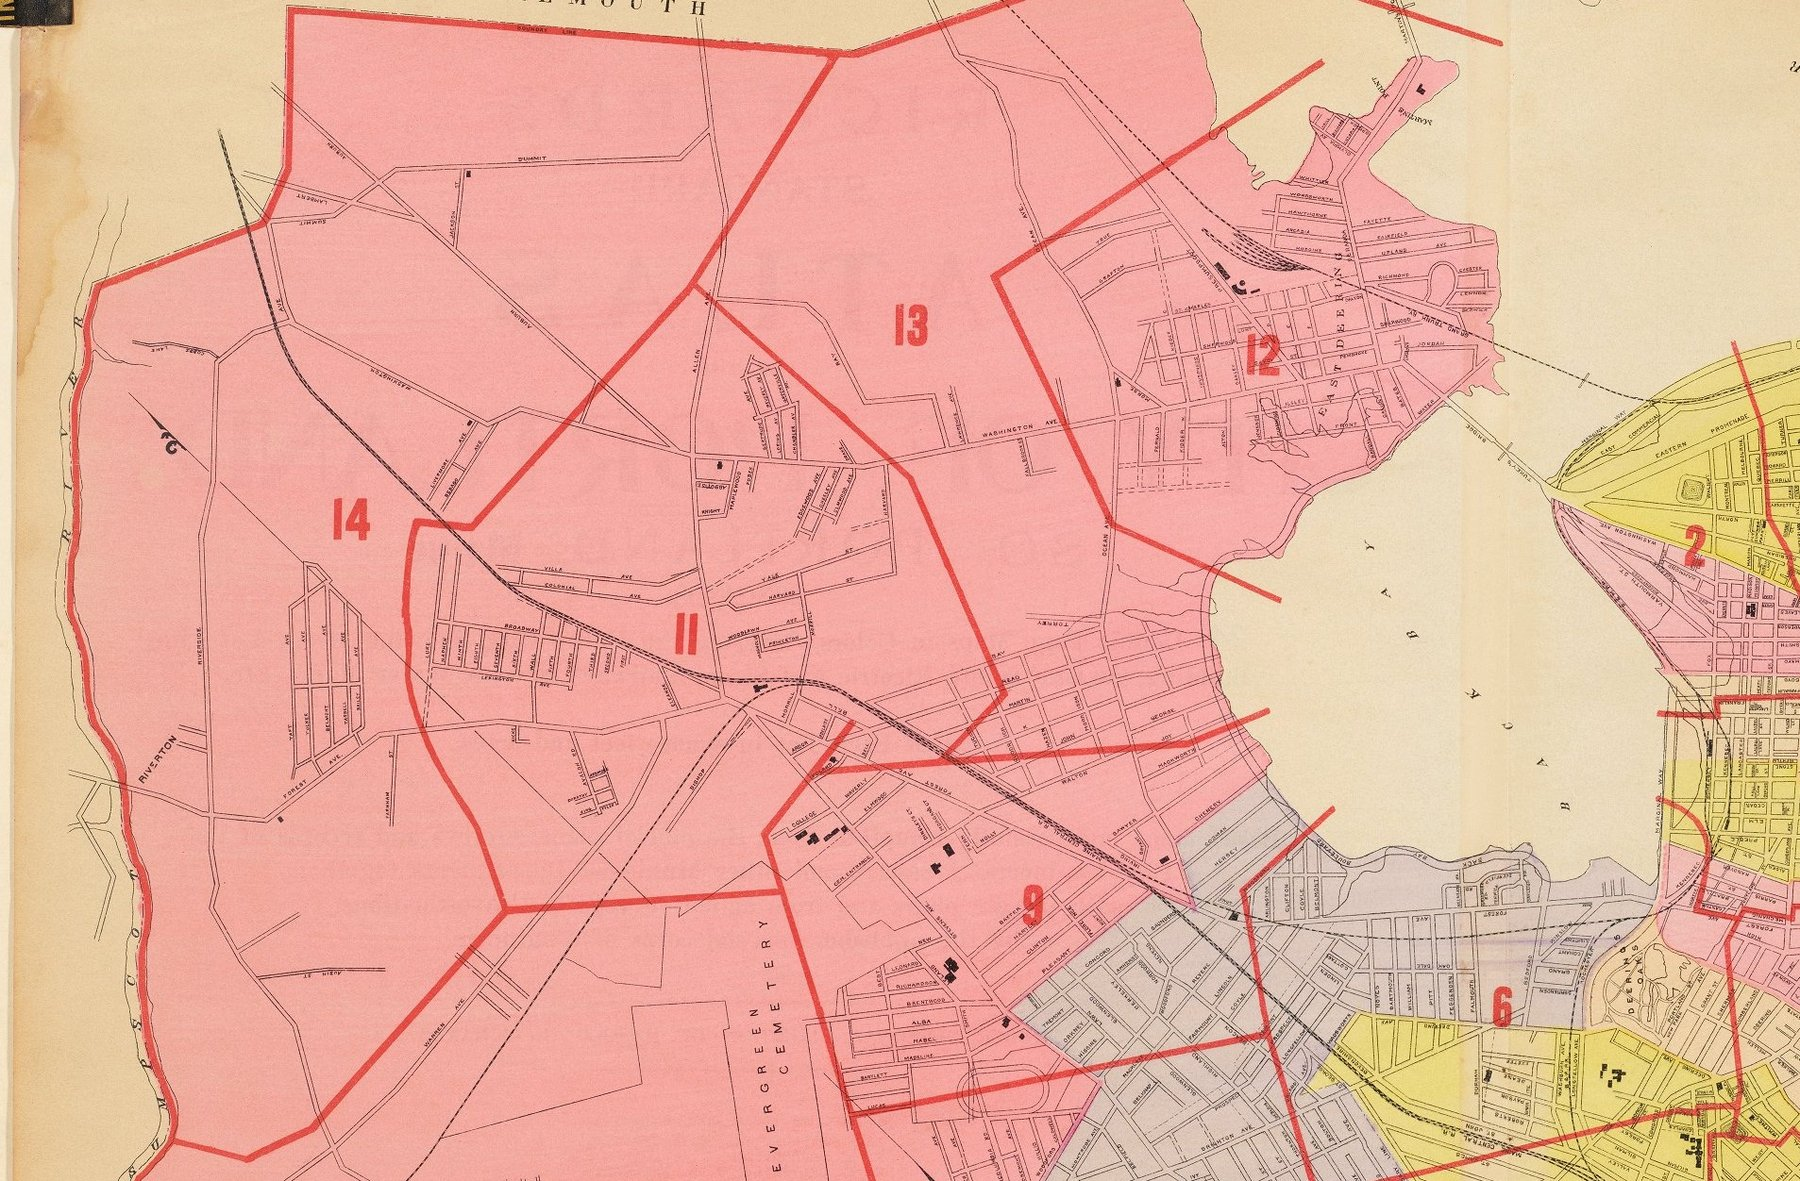
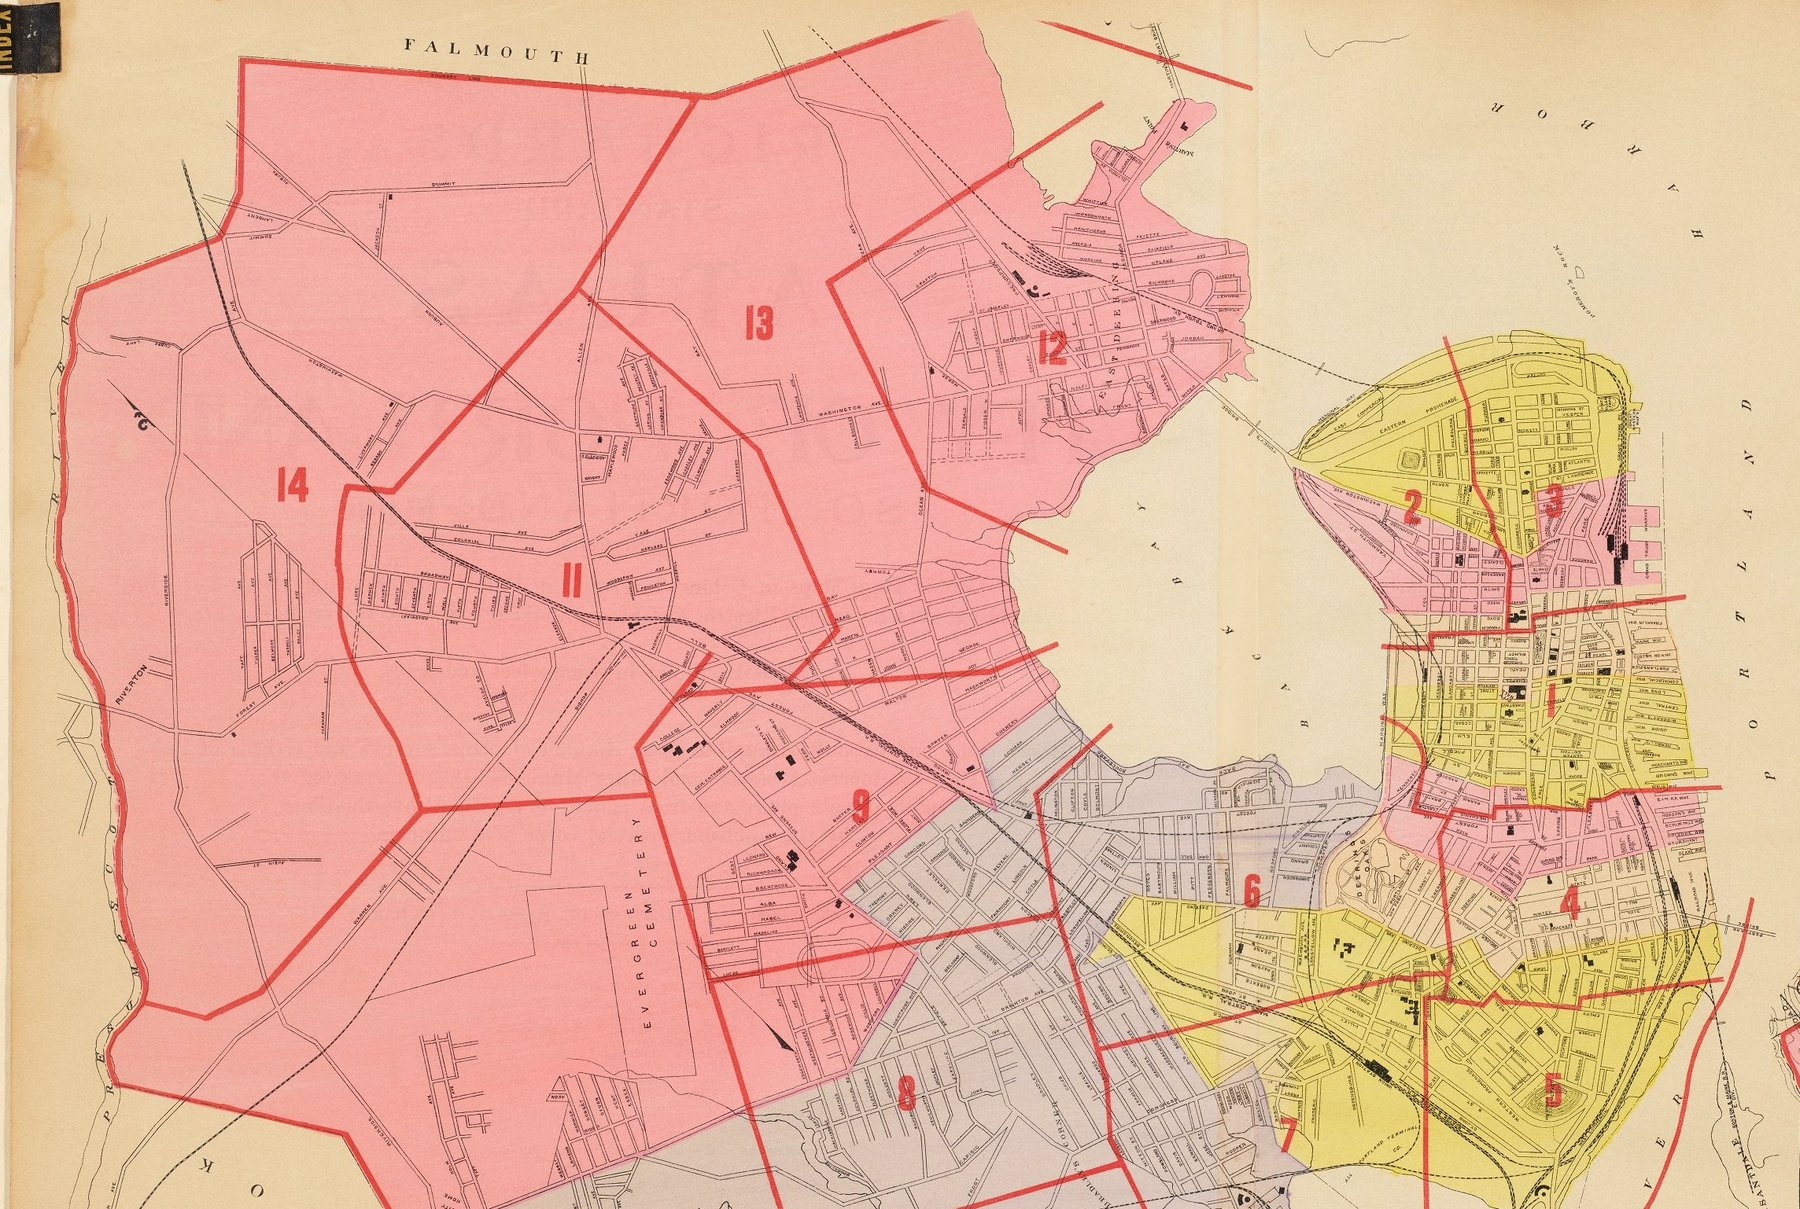
Fix map tile rendering, annotation accuracy, and hero framing
1. Broken-looking map tiles (confirmed real, not a screenshot artifact
   -- fetched an actual OSM tile URL directly and it genuinely was
   mostly blank): the Placerville-area parcel sits on real rural land
   with almost nothing drawn in OSM's street-vector style at high
   zoom. Switched both map components (ResultMap.svelte, workspace's
   inline map) from OSM tiles to Esri World Imagery satellite tiles,
   which always show real ground detail regardless of how rural the
   area is. Also fixed a real timing bug found along the way: calling
   fitBounds twice in quick succession (an initial setView followed
   shortly by a delayed re-fit) made Leaflet abandon in-flight tile
   fetches for the first view, which was contributing to the broken
   appearance -- now it's a single fitBounds after invalidateSize.

2. Detection-box annotations on the scan-visual image were positioned
   at arbitrary percentages, not actually over real text or a real
   parcel block. Repositioned them over the document's actual title
   text and an actual dense lot-grid block, and switched the image
   from a cropped object-fit:cover (which would have made percentage
   positions drift against the visible crop) to full natural sizing,
   so the overlay always aligns with the real image content.

3. Hero image cropped to show more surrounding context (more ward
   zones visible) at the same display size, per feedback that the
   previous crop was too tight.

diff --git a/frontend/src/lib/components/ResultMap.svelte b/frontend/src/lib/components/ResultMap.svelte
@@ -18,12 +18,29 @@
       doubleClickZoom: interactive,
       boxZoom: interactive,
       keyboard: false,
-      attributionControl: interactive
-    }).setView([0, 0], 2);
+      attributionControl: interactive,
+      fadeAnimation: false,
+      zoomAnimation: false
+    });
 
-    L.tileLayer('https://{s}.tile.openstreetmap.org/{z}/{x}/{y}.png', {
-      attribution: '&copy; OpenStreetMap contributors'
-    }).addTo(map);
+    // Satellite imagery rather than the OSM street-vector style: a
+    // parcel can sit on genuinely undeveloped rural land with almost
+    // nothing drawn in OSM's vector tiles at high zoom (confirmed by
+    // fetching an actual tile directly -- it really was mostly blank,
+    // not a rendering bug), which reads as "broken" even though it's
+    // accurately empty. Real imagery always has visible ground detail.
+    L.tileLayer(
+      'https://server.arcgisonline.com/ArcGIS/rest/services/World_Imagery/MapServer/tile/{z}/{y}/{x}',
+      { attribution: 'Esri, Maxar, Earthstar Geographics' }
+    ).addTo(map);
+
+    // Settle the container's real size BEFORE the one-and-only fitBounds
+    // call -- doing this after (or calling fitBounds more than once in
+    // quick succession, which an earlier version of this component did)
+    // makes Leaflet start loading tiles for one view, then abandon them
+    // mid-fetch for the next, leaving broken/half-loaded tile fragments
+    // instead of a clean render.
+    map.invalidateSize(false);
 
     const layer = L.geoJSON(geojson, {
       style: { color, weight: 2.5, fillColor: color, fillOpacity: 0.14 }
@@ -31,15 +48,10 @@
 
     const bounds = layer.getBounds();
     if (bounds.isValid()) {
-      map.fitBounds(bounds, { padding: [28, 28] });
+      map.fitBounds(bounds, { padding: [28, 28], animate: false });
+    } else {
+      map.setView([0, 0], 2);
     }
-
-    requestAnimationFrame(() => map.invalidateSize());
-    setTimeout(() => {
-      map.invalidateSize();
-      const b = layer.getBounds();
-      if (b.isValid()) map.fitBounds(b, { padding: [28, 28] });
-    }, 250);
   });
 
   onDestroy(() => {
@@ -53,6 +65,7 @@
 .result-map {
   width: 100%;
   height: 100%;
+  background: #eeece6;
 }
 
 .result-map :global(.leaflet-control-attribution) {

diff --git a/frontend/src/routes/(app)/workspace/+page.svelte b/frontend/src/routes/(app)/workspace/+page.svelte
@@ -44,10 +44,22 @@
   async function renderMap() {
     await ensureLeaflet();
     if (!map) {
-      map = L.map(mapEl, { zoomControl: true }).setView([20, 0], 2);
-      L.tileLayer('https://{s}.tile.openstreetmap.org/{z}/{x}/{y}.png', {
-        attribution: '&copy; OpenStreetMap contributors'
-      }).addTo(map);
+      map = L.map(mapEl, { zoomControl: true, fadeAnimation: false, zoomAnimation: false });
+      // Satellite imagery, not OSM's street-vector style -- a parcel
+      // can sit on undeveloped rural land with almost nothing drawn at
+      // high zoom in the vector style, which reads as "broken" even
+      // when it's rendering correctly. Imagery always has ground detail.
+      L.tileLayer(
+        'https://server.arcgisonline.com/ArcGIS/rest/services/World_Imagery/MapServer/tile/{z}/{y}/{x}',
+        { attribution: 'Esri, Maxar, Earthstar Geographics' }
+      ).addTo(map);
+      // Settle the container's real size before the first fitBounds --
+      // calling fitBounds before the size is known (or calling it twice
+      // in quick succession, e.g. an initial setView followed shortly
+      // by a fitBounds) makes Leaflet abandon in-flight tile fetches
+      // for the first view when the second one starts, leaving broken/
+      // half-loaded tile fragments instead of a clean render.
+      map.invalidateSize(false);
     }
 
     if (layerGroup) layerGroup.remove();
@@ -79,10 +91,10 @@
     if (bounds.length) {
       let combined = bounds[0];
       for (const b of bounds.slice(1)) combined = combined.extend(b);
-      map.fitBounds(combined, { padding: [40, 40] });
+      map.fitBounds(combined, { padding: [40, 40], animate: false });
+    } else {
+      map.setView([20, 0], 2);
     }
-
-    requestAnimationFrame(() => map.invalidateSize());
   }
 
   function selectRegion(key: string) {

diff --git a/frontend/src/routes/(marketing)/+page.svelte b/frontend/src/routes/(marketing)/+page.svelte
@@ -70,10 +70,10 @@
       </div>
       <div class="story-visual scan-visual">
         <img src="/images/gallery-baist-dc.jpg" alt="Detected regions on a scanned real-estate atlas plate" />
-        <div class="detect-box" style="left:8%; top:38%; width:26%; height:20%;">
+        <div class="detect-box" style="left:50.5%; top:47%; width:21%; height:21.5%;">
           <span>ParcelMap</span>
         </div>
-        <div class="detect-box" style="left:58%; top:10%; width:20%; height:12%;">
+        <div class="detect-box" style="left:10.5%; top:13.5%; width:25%; height:9.5%;">
           <span>Text</span>
         </div>
       </div>
@@ -321,8 +321,7 @@ h1 {
 .scan-visual img {
   display: block;
   width: 100%;
-  height: 260px;
-  object-fit: cover;
+  height: auto;
 }
 
 .detect-box {
